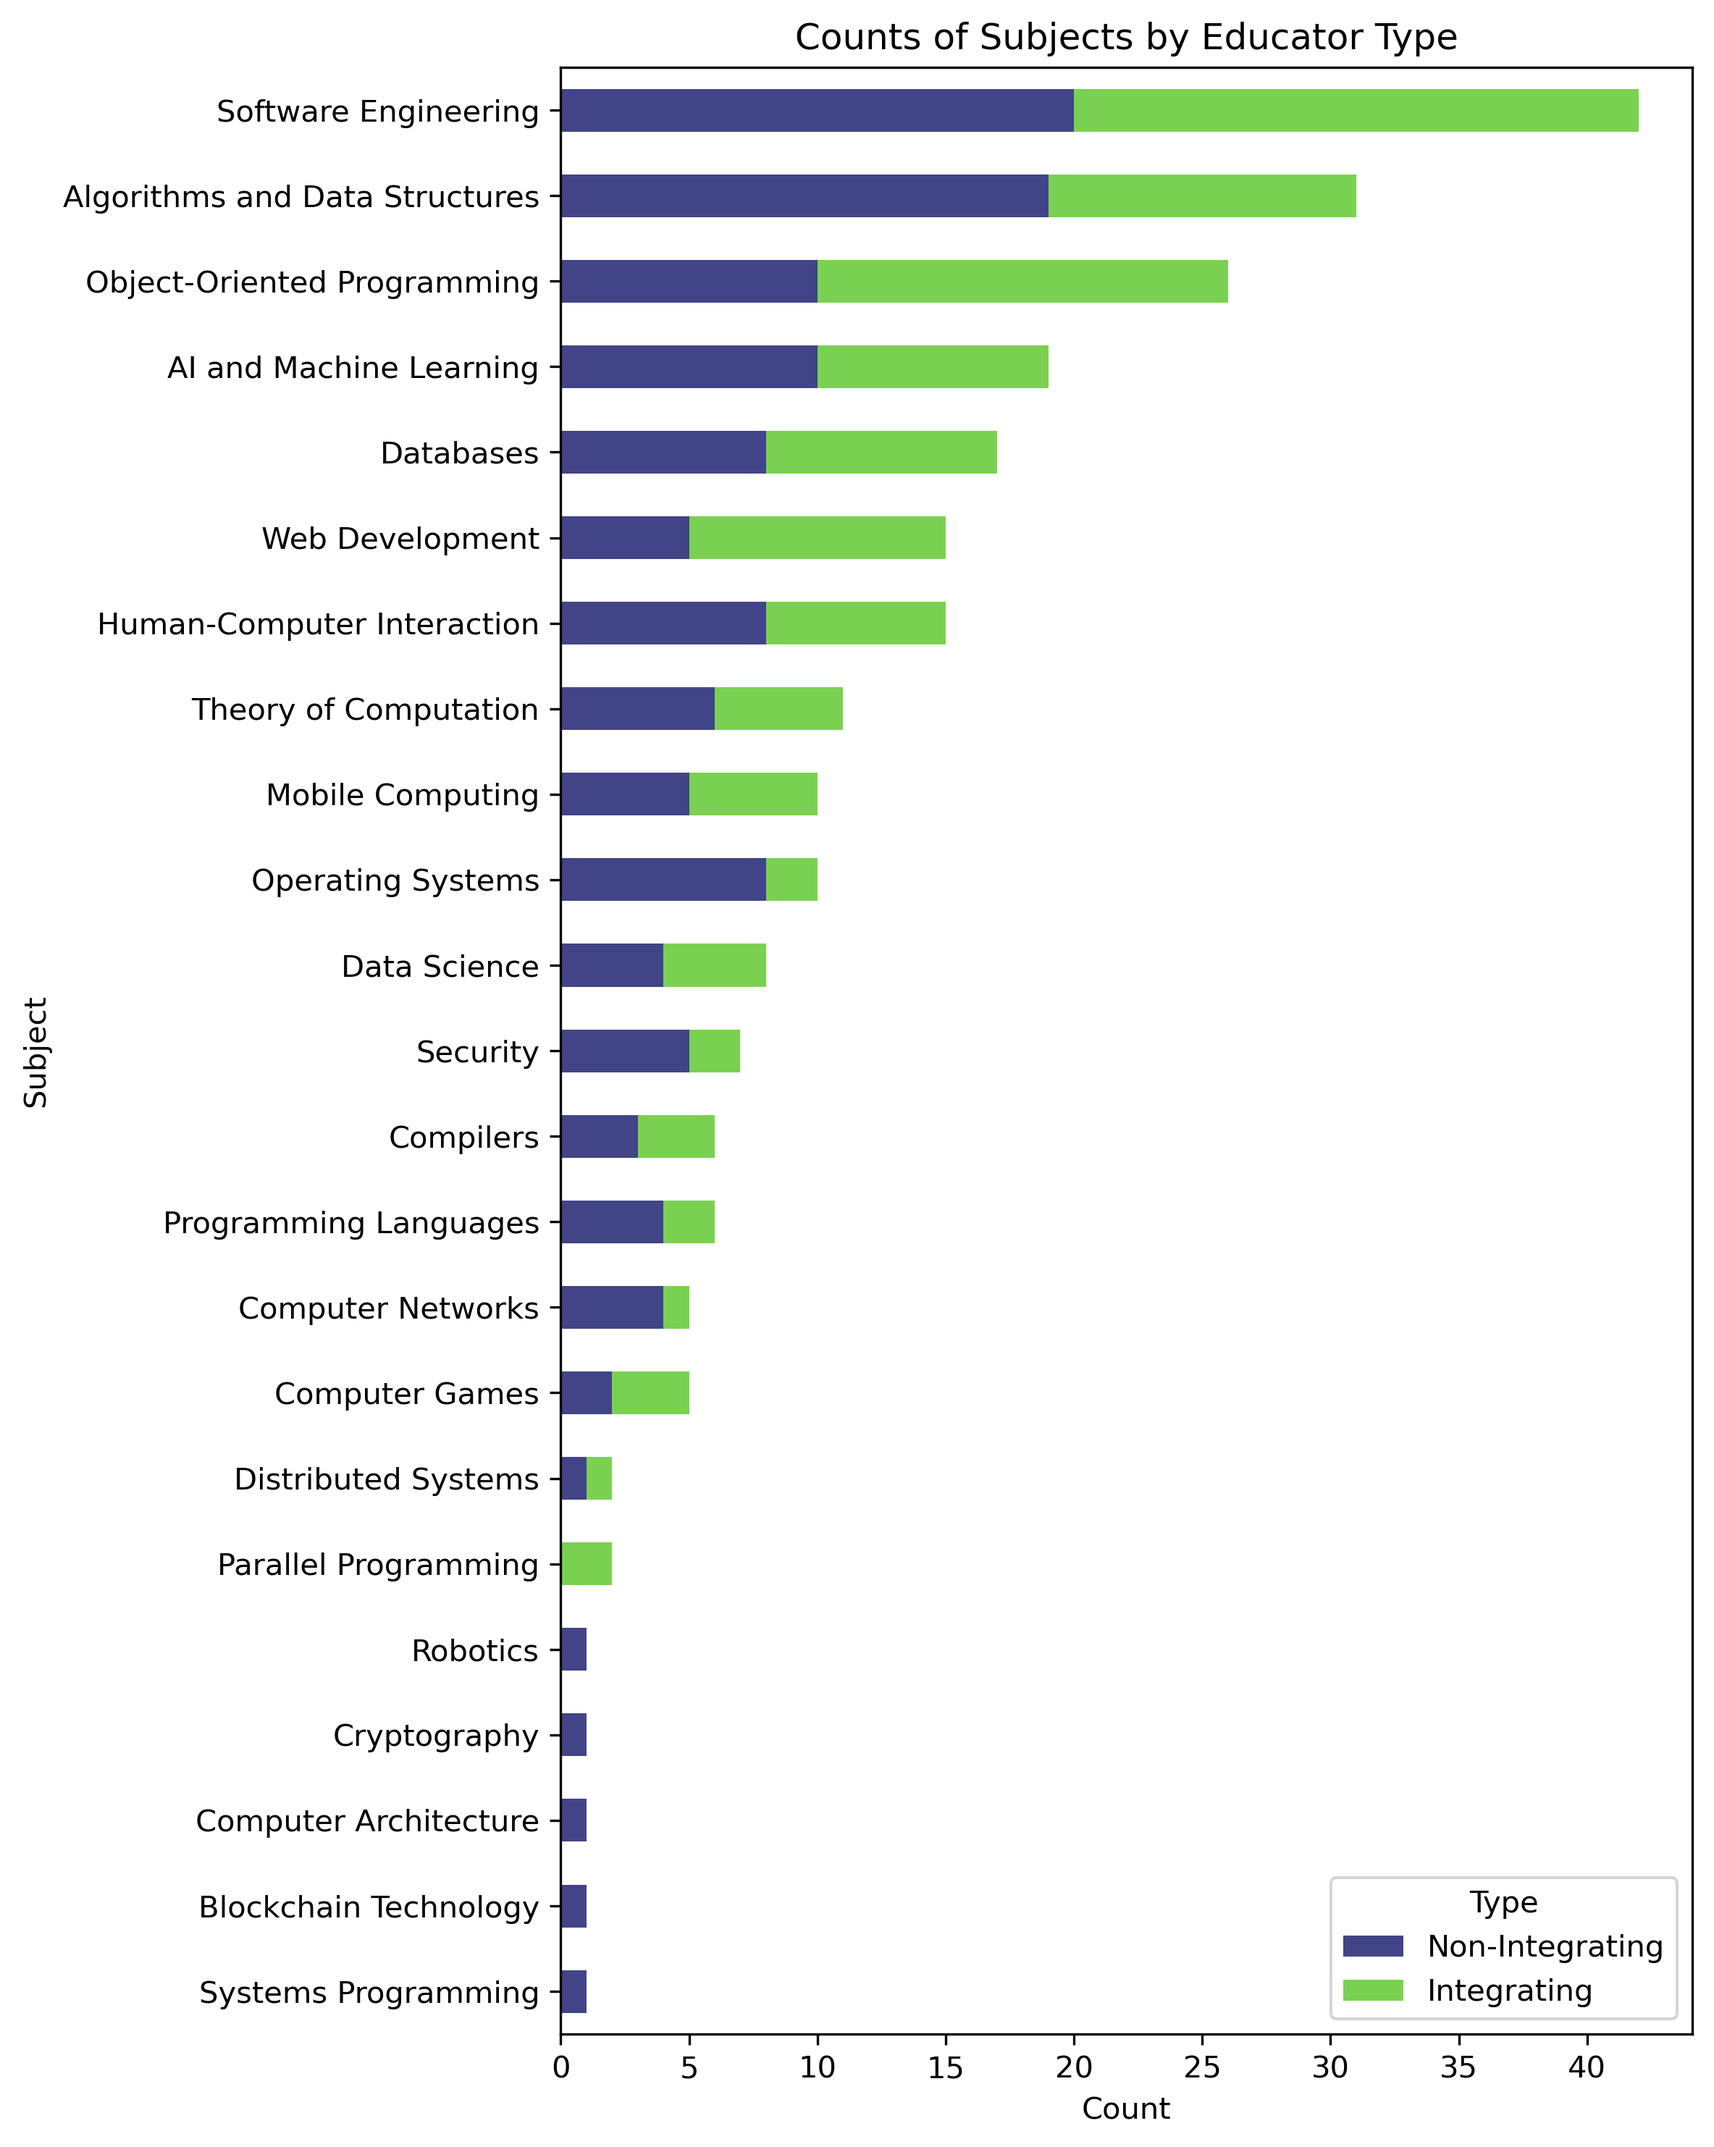
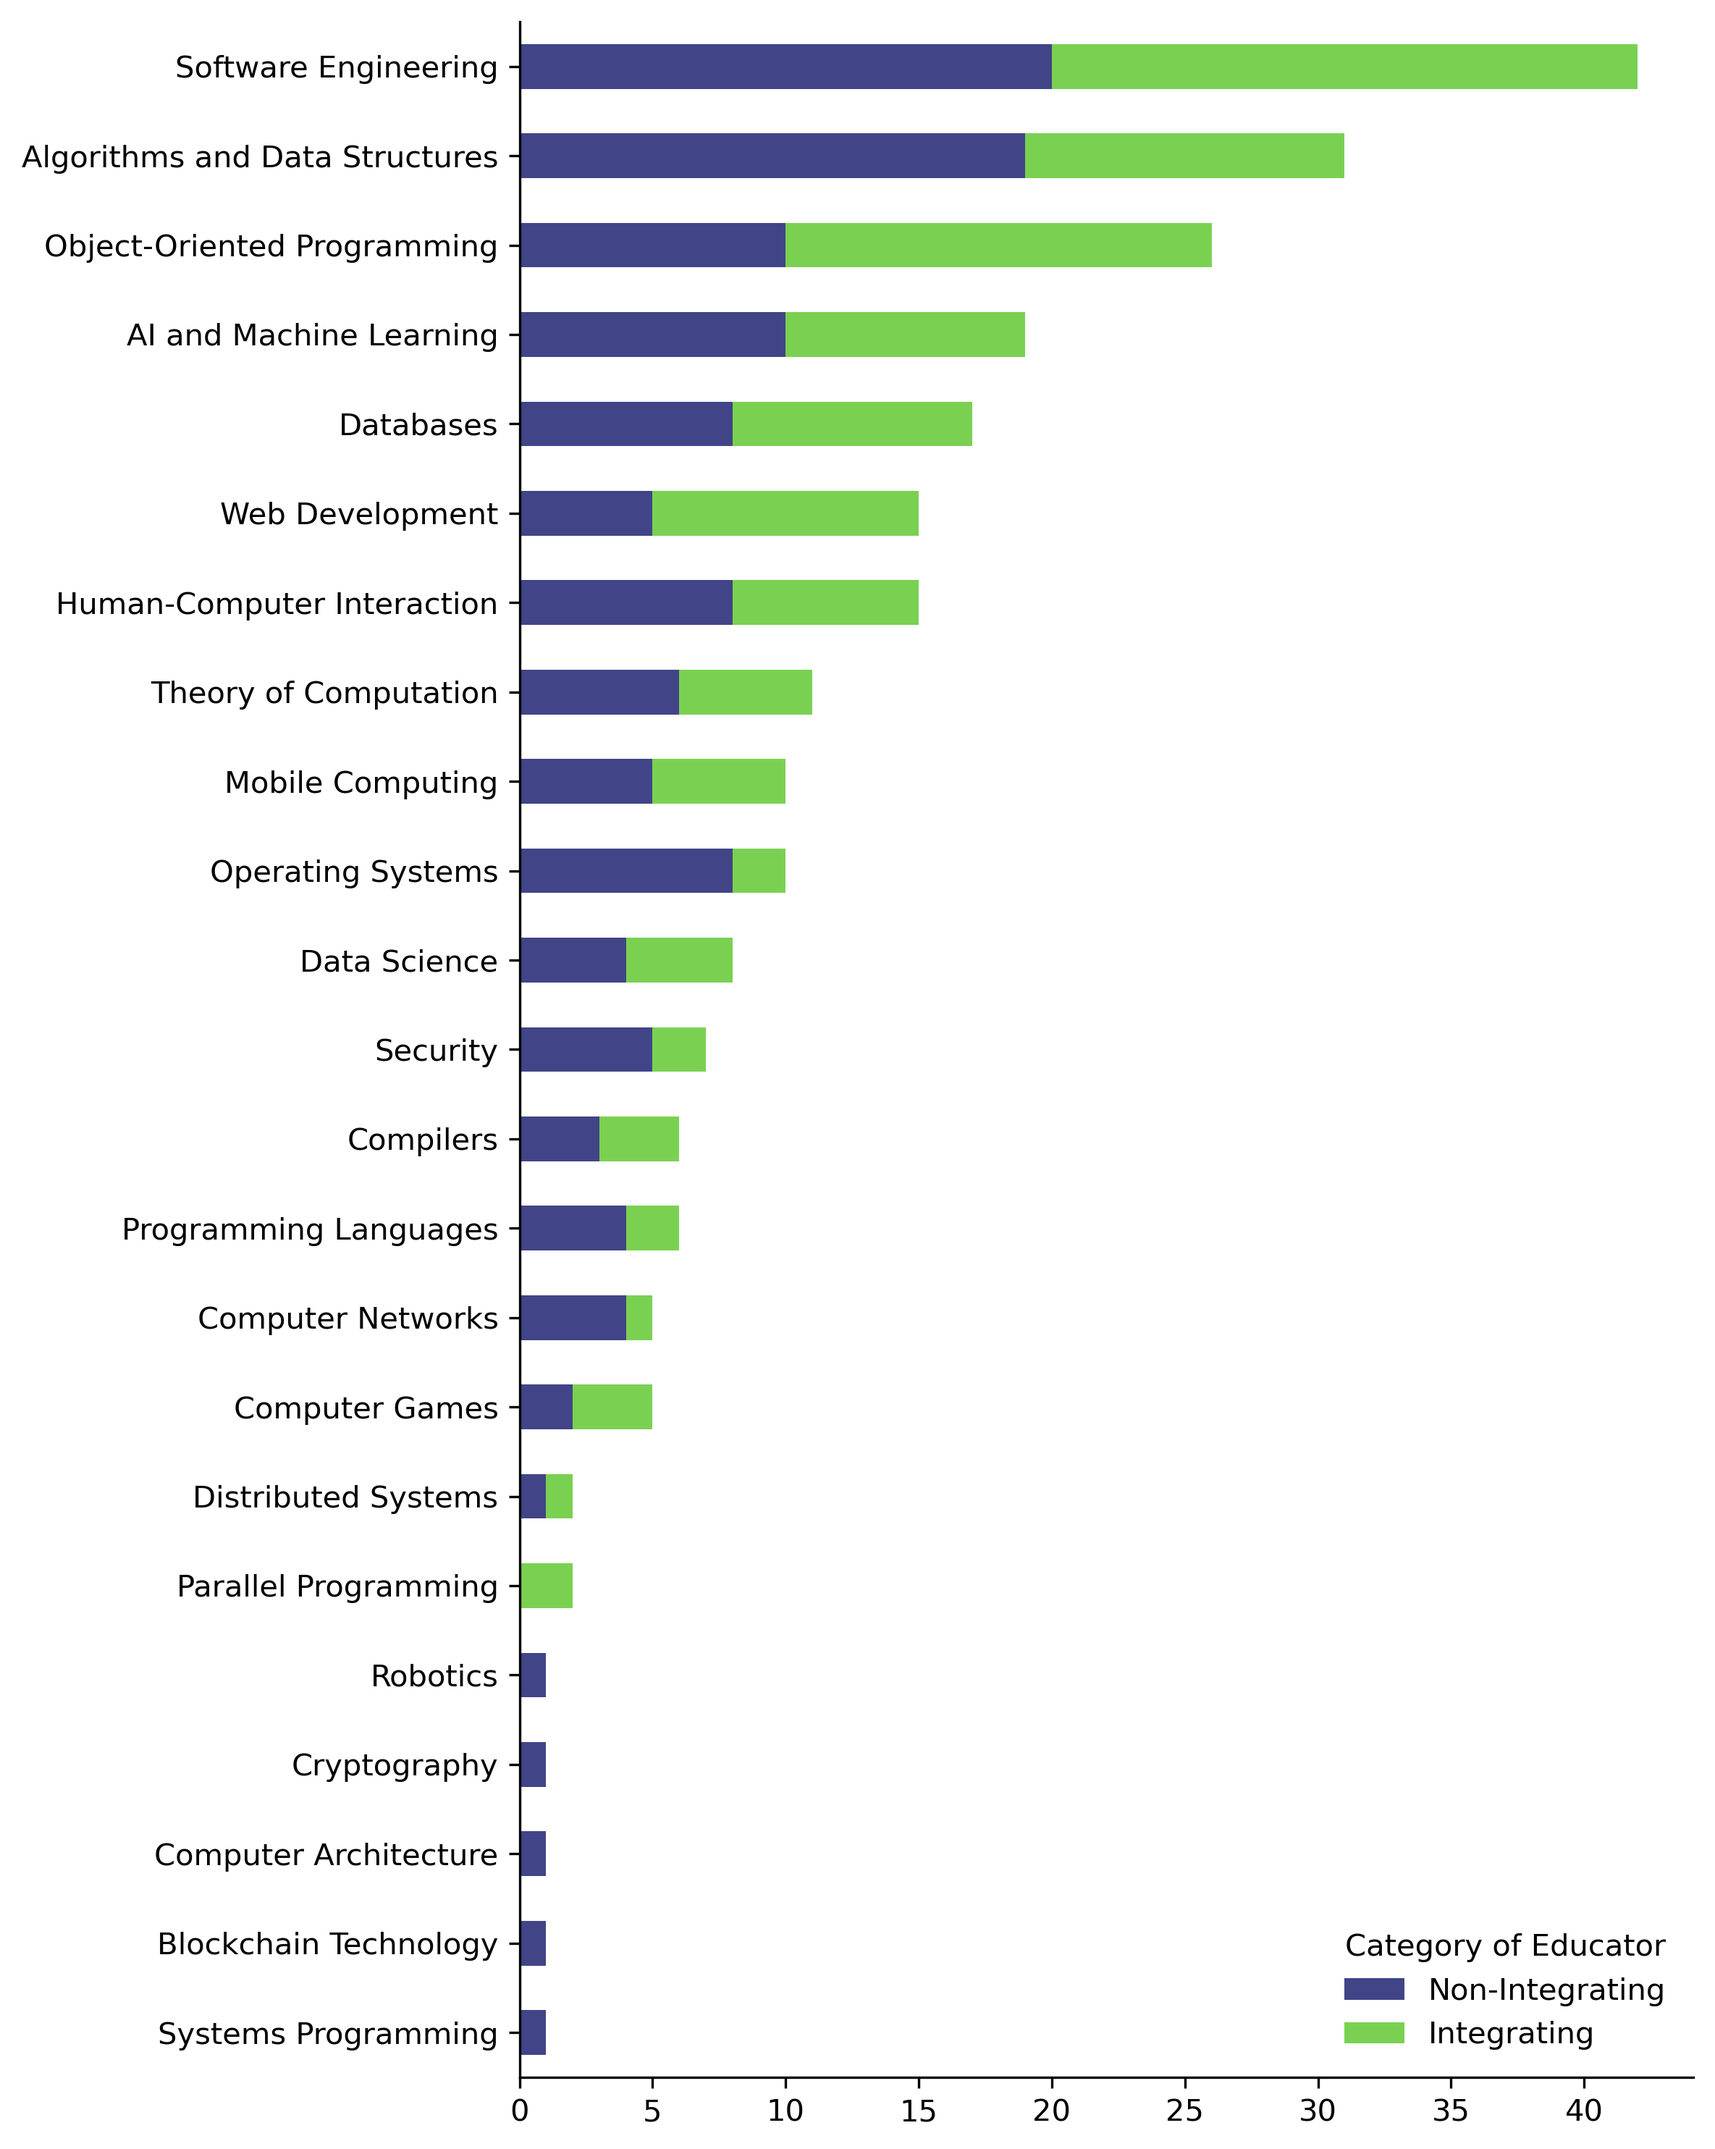
Update survey

diff --git a/survey/scripts/NI-vs-I-by-subject.py b/survey/scripts/NI-vs-I-by-subject.py
@@ -47,7 +47,7 @@ data = [
 ]
 
 # Create DataFrame
-df = pd.DataFrame(data, columns=["Subject", "Count", "Type"])
+df = pd.DataFrame(data, columns=["Subject", "Count", "Category"])
 
 # Combine Distributed Computing and Distributed Systems
 df["Subject"] = df["Subject"].replace({
@@ -55,7 +55,7 @@ df["Subject"] = df["Subject"].replace({
 })
 
 # Pivot to wide format
-pivot_df = df.pivot_table(index="Subject", columns="Type", values="Count", fill_value=0)
+pivot_df = df.pivot_table(index="Subject", columns="Category", values="Count", fill_value=0)
 
 # Sort by total count
 pivot_df["Total"] = pivot_df.sum(axis=1)
@@ -73,10 +73,13 @@ pivot_df[["NI", "I"]].plot(
     color=viridis_colors,
     edgecolor="none"
 )
-ax.set_xlabel("Count")
-ax.set_ylabel("Subject")
-ax.legend(["Non-Integrating", "Integrating"], title="Type")
-ax.set_title("Counts of Subjects by Educator Type")
+# Remove frame around the chart while keeping axes
+ax.spines['top'].set_visible(False)
+ax.spines['right'].set_visible(False)
+# ax.set_xlabel("Count")
+ax.set_ylabel("")
+ax.legend(["Non-Integrating", "Integrating"], title="Category of Educator", frameon=False)
+# ax.set_title("Counts of Subjects by IntegratiEducator")
 ax.grid(False)  # Remove grid lines
 plt.tight_layout()
 
